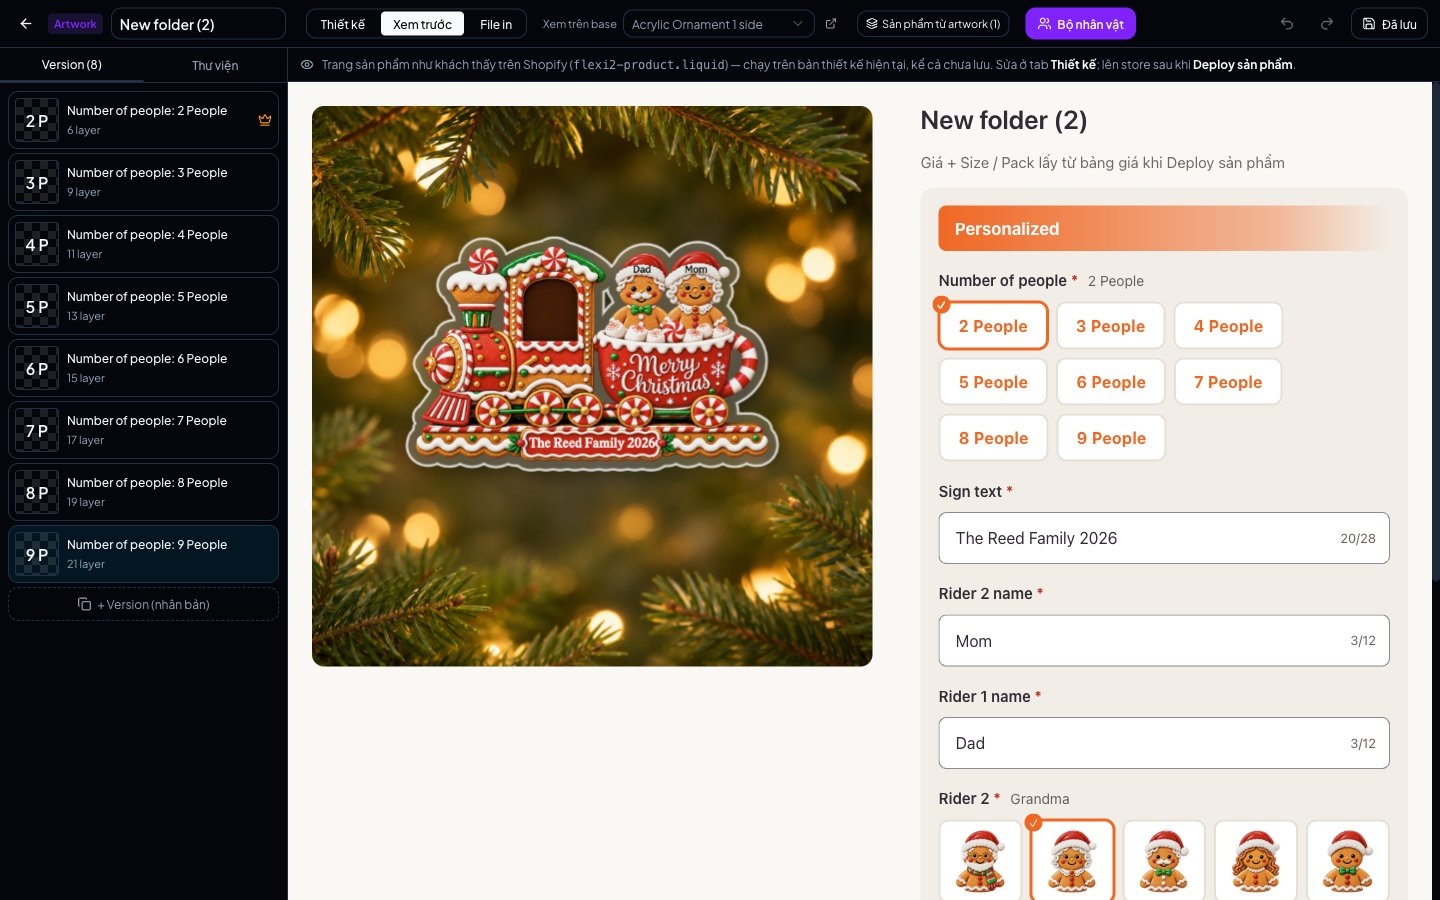
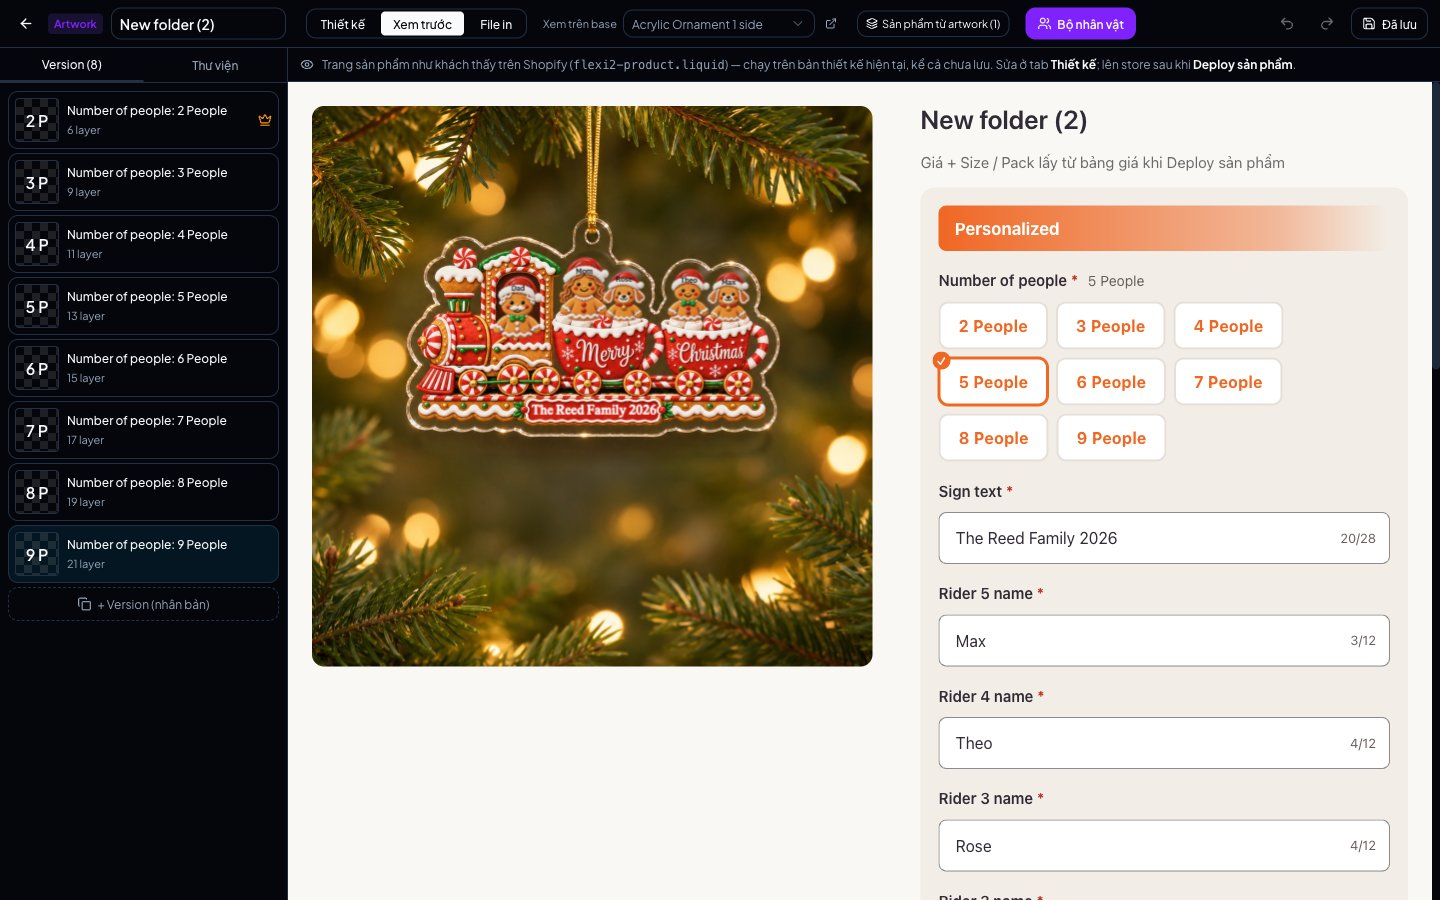
Hướng dẫn: phôi AI theo version (ảnh 8 version, preview mới), file in không bao giờ có vật liệu

diff --git a/customize-tool/components/guide/guide-page.tsx b/customize-tool/components/guide/guide-page.tsx
@@ -327,11 +327,12 @@ export function GuidePage() {
             </div>
             <div className="grid gap-4 md:grid-cols-2">
               <Shot src="fx-base-cut.jpg" caption="Trang Product base: mục Cắt + file in và Phôi / nền xem trước (Acrylic: ảnh nền cây thông)" tone="fx" />
-              <Shot src="fx-artwork-on-base.jpg" caption="Artwork: ô “Xem trên base” — Xem trước tự có tấm acrylic trong + viền sáng theo đúng hình của version" tone="fx" />
+              <Shot src="fx-artwork-on-base.jpg" caption="Artwork xem trên base Acrylic: preview = phôi AI của version (acrylic thật, dây treo) + nhân vật / chữ khách chọn đặt lên" tone="fx" />
             </div>
+            <Shot src="fx-phoi-ai.jpg" caption="Phôi AI theo version: 8 version tàu, mỗi cái 1 ảnh acrylic thật do AI vẽ từ phần cố định — chỗ nhân vật để trống cho khách chọn" tone="fx" />
             <div className="rounded-2xl border-2 border-sky-500/50 bg-sky-500/5 p-4">
               <div className="mb-3 font-semibold">1 artwork — đổi base là ra loại sản phẩm khác (không sửa thiết kế)</div>
-              <Shot src="fx-same-artwork.jpg" caption="Cùng artwork tàu Gingerbread: trên base Acrylic (phôi tự sinh) · Ceramic tròn (cắt theo khuôn, phôi sứ) · Poseable Doll (in phẳng)" tone="fx" />
+              <Shot src="fx-same-artwork.jpg" caption="Cùng artwork tàu Gingerbread: trên base Acrylic · Ceramic tròn (cắt theo khuôn, phôi sứ) · Poseable Doll (in phẳng)" tone="fx" />
             </div>
             <div className="grid gap-4 md:grid-cols-2">
               <Shot src="fx-filein-stack.jpg" caption="File in trên base Acrylic: silhouette full đen nửa trên + bản in nửa dưới, đúng kiểu Merchize của Cherivia — tự sinh từ hình, không vẽ" tone="fx" />
@@ -344,7 +345,8 @@ export function GuidePage() {
             <div className="grid gap-3 md:grid-cols-2">
               {[
                 ["Một chỗ sửa, mọi nơi theo", "Đổi khuôn / phôi / viền ở trang base rồi Lưu → mọi artwork xem trên base đó và mọi sản phẩm của nó cập nhật ngay. Teeinblue phải sửa từng artwork."],
-                ["Không vẽ phôi cho từng version", "Acrylic: phôi = tấm acrylic trong vẽ từ chính hình của version + ảnh nền của base. Thêm version là có preview ngay."],
+                ["Phôi theo version: AI vẽ, không ai vẽ tay", "Bấm “Phôi AI theo version” → AI vẽ phần cố định của từng version thành acrylic thật trên nền của base, tự căn khớp từng px. Teeinblue phải vẽ tay 8 ảnh."],
+                ["File in không bao giờ có vật liệu", "Phôi AI chỉ để khách xem. File gửi xưởng (kèm đơn add to cart) là thiết kế gốc + khuôn / silhouette — vật liệu do xưởng quyết định."],
                 ["Preview luôn khớp file in", "Không có bản sao Preview / Print: cùng 1 layer ra cả hai, nên không thể lệch nhau."],
                 ["Artwork dùng lại được", "Cùng 1 thiết kế đặt lên Acrylic, Ceramic, áo… chỉ bằng cách chọn base. Định dạng file của xưởng nằm ở base."],
                 ["Đúng cách cả ngành làm", "Teeinblue (tài liệu), Customily, Customall, Printful / Gelato đều để thông số vật lý ở sản phẩm trơn."],
@@ -382,6 +384,9 @@ export function GuidePage() {
               </p>
               <p>
                 <b>Xem trước</b>: trang bán trên phôi của base. <b>File in</b>: cắt theo khuôn / viền của base, silhouette theo base. Đổi base để thử loại sản phẩm khác.
+              </p>
+              <p>
+                Base acrylic: ở Layers → nhóm Preview bấm <b>Phôi AI theo version</b> → <b>Vẽ N version chưa có</b> (~2 phút, các version vẽ cùng lúc). Xong thì sản phẩm làm từ artwork tự nhận.
               </p>
             </Step>
             <Step n={4} title="Tạo sản phẩm = artwork + product base" shot="fx-create-product.jpg">
@@ -439,7 +444,7 @@ export function GuidePage() {
           <Section id="file-in" title="9. File in theo từng loại sản phẩm" lead="Base quyết định; artwork chỉ đưa thiết kế.">
             <div className="grid gap-4 md:grid-cols-3">
               {[
-                { icon: Scissors, t: "Acrylic Ornament", d: "Cắt theo viền hình + 2.5 mm, tai treo. Preview: tấm acrylic trong tự vẽ trên ảnh nền cây thông.", s: "1 file cao gấp đôi: silhouette full đen trên, bản in dưới (như Cherivia gửi Merchize)" },
+                { icon: Scissors, t: "Acrylic Ornament", d: "Cắt theo viền hình + 2.5 mm, tai treo. Preview: phôi AI theo version (acrylic thật trên nền cây thông), phần khách chọn đặt lên.", s: "1 file cao gấp đôi: silhouette full đen trên, bản in dưới (như Cherivia gửi Merchize)" },
                 { icon: ImageIcon, t: "Ornament sứ / kính tròn", d: "Đặt artwork vào khuôn tròn của base, chỉnh cỡ / vị trí ở sản phẩm. Preview: phôi sứ / kính của khuôn.", s: "File in cắt theo khuôn + cut.svg; gói zip có silhouette khuôn" },
                 { icon: Printer, t: "Poseable Doll · áo · thảm", d: "In phẳng nguyên canvas, không cắt.", s: "Không silhouette" },
               ].map(({ icon: Icon, t, d, s }) => (
